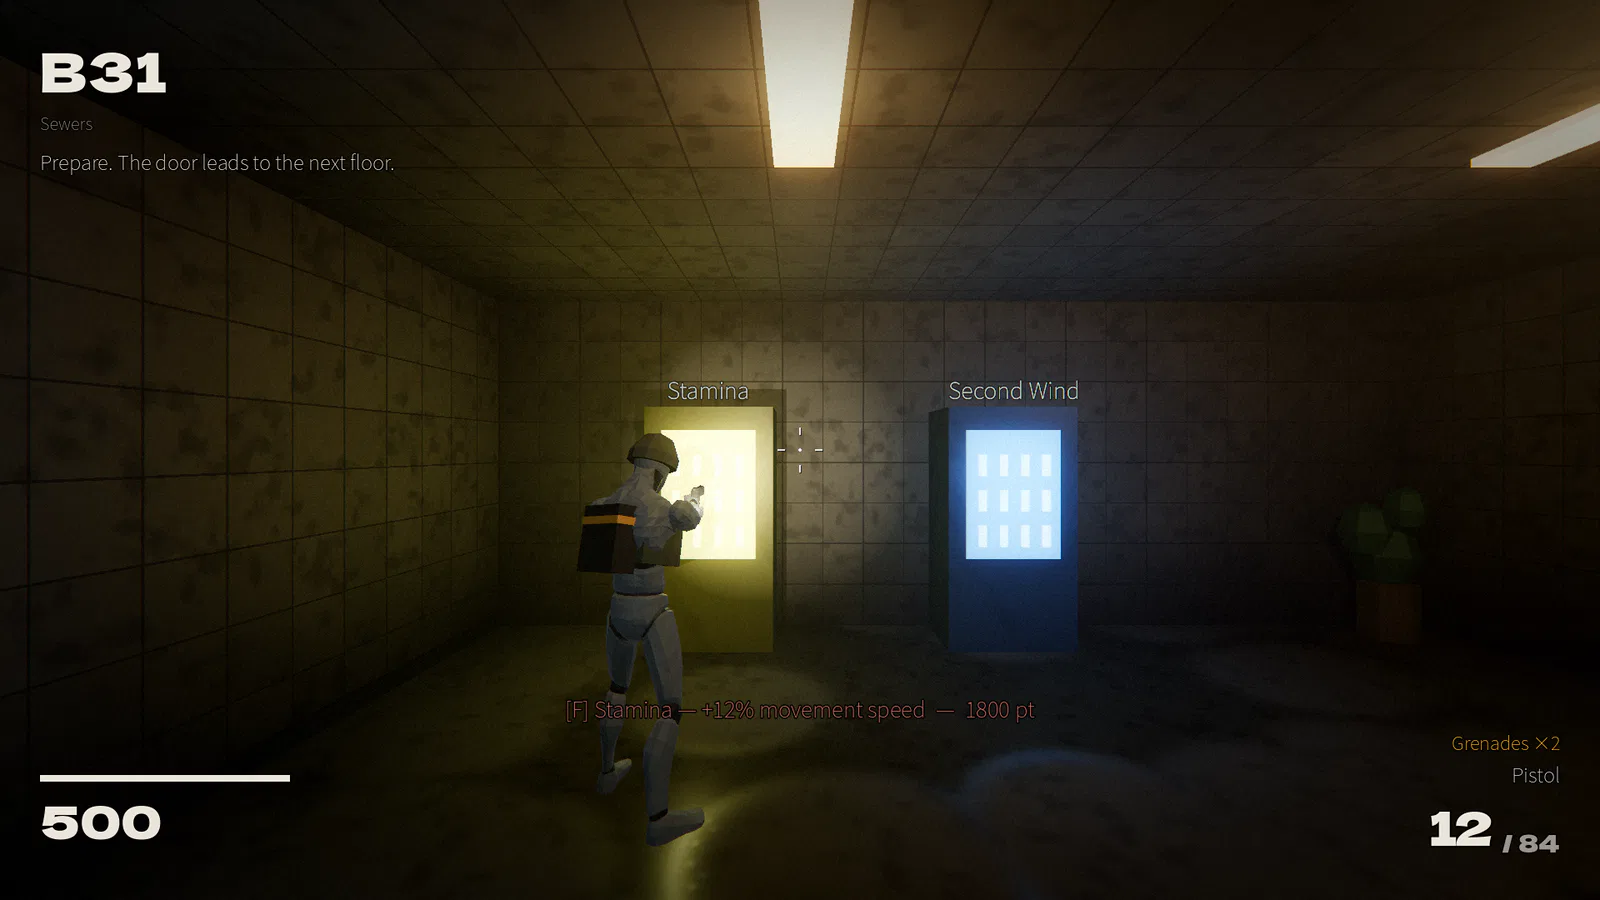
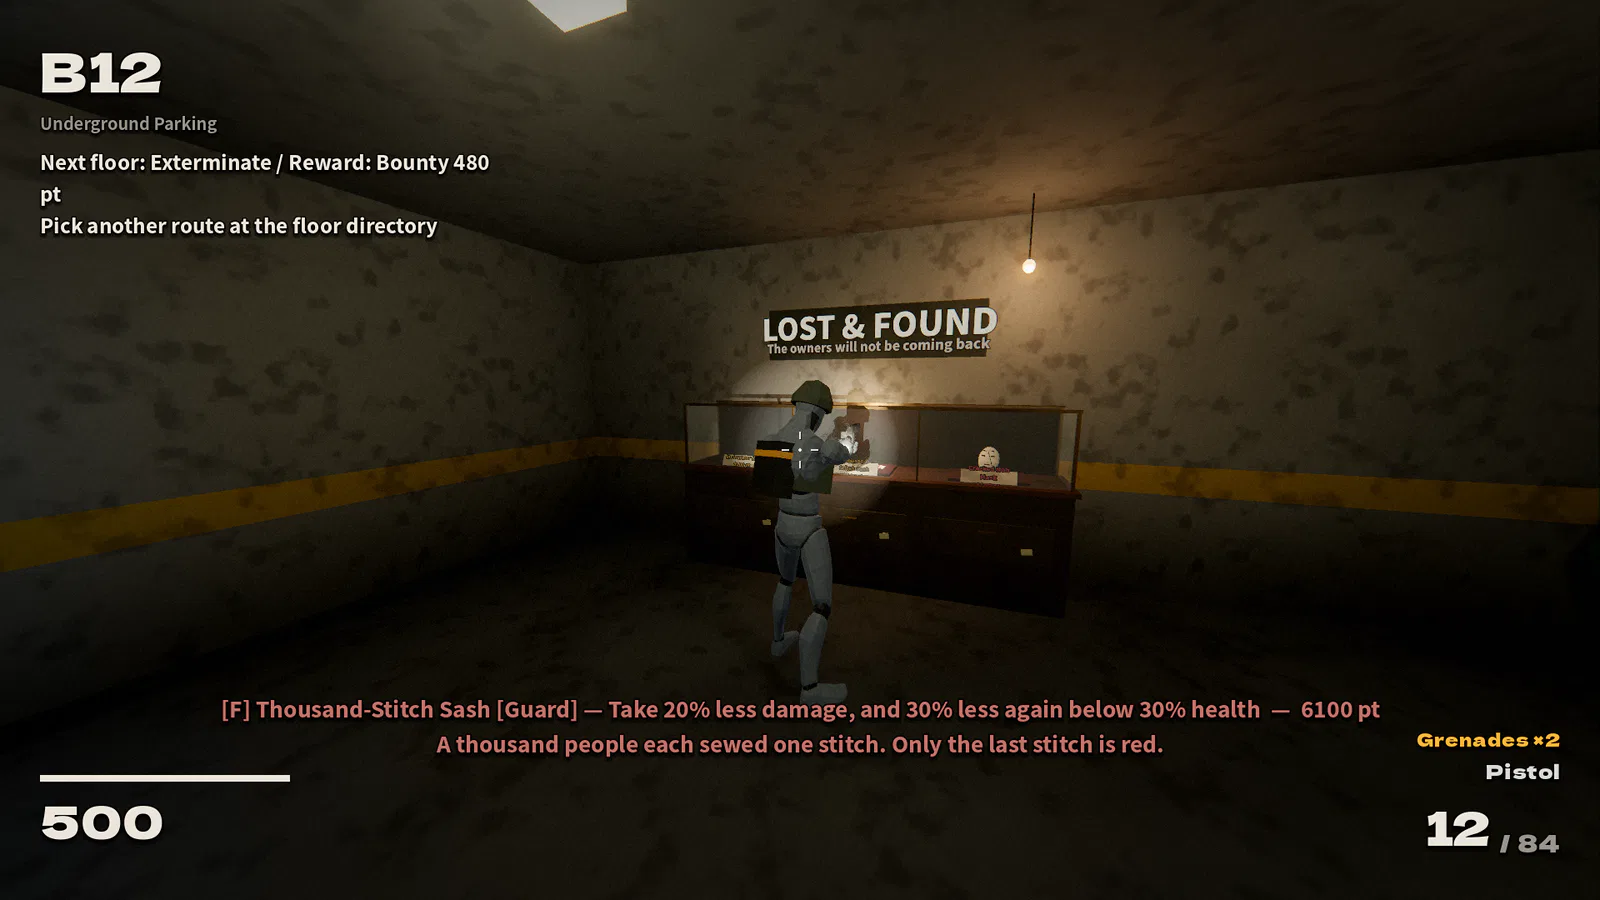
v0.2.0 の内容に合わせて紹介文と画像を直し、製品版のコード入力欄を足す

diff --git a/index.html b/index.html
@@ -70,7 +70,7 @@
         <span class="live"><span class="ja">Steam でウィッシュリストに追加</span><span class="en">Wishlist on Steam</span></span>
       </a>
     </div>
-    <p class="hero-meta">Windows 10 / 11<i>·</i>日本語 / English<i>·</i><span class="js-version">v0.1.0</span></p>
+    <p class="hero-meta">Windows 10 / 11<i>·</i>日本語 / English<i>·</i><span class="js-version">v0.2.0</span></p>
   </div>
   <a class="hero-down" href="#about"><span class="ja">降りる</span><span class="en">Descend</span></a>
 </section>
@@ -108,17 +108,17 @@
       <li class="card">
         <svg viewBox="0 0 24 24" aria-hidden="true"><rect x="3" y="3" width="18" height="18" rx="2"/><path d="M9.5 9.5a2.5 2.5 0 1 1 3.4 2.3c-.6.3-.9.8-.9 1.4V14"/><circle cx="12" cy="17" r=".9" class="fill"/></svg>
         <h3><span class="ja">買う</span><span class="en">Spend</span></h3>
-        <p><span class="ja">壁の武器を買い、ミステリーボックスで一発逆転を狙い、パークのアンプルで自分を強化する。</span><span class="en">Buy guns off the walls, gamble on the Mystery Box and drink perk ampoules.</span></p>
+        <p><span class="ja">壁の武器を買い、コインロッカーで一発逆転を狙う。ホールの遺失物の棚には、先に降りた者たちの遺品が並ぶ。</span><span class="en">Buy guns off the walls, try your luck at the Coin Locker, and pick up relics left in the halls by those who went down before you.</span></p>
       </li>
       <li class="card">
         <svg viewBox="0 0 24 24" aria-hidden="true"><path d="M6 13l6-6 6 6M6 19l6-6 6 6"/></svg>
         <h3><span class="ja">鍛える</span><span class="en">Upgrade</span></h3>
-        <p><span class="ja">改造台で武器を最大+5まで強化。レアリティはコモンからレジェンドまで5段階。</span><span class="en">Upgrade weapons at the mod bench up to +5, across five rarities from Common to Legendary.</span></p>
+        <p><span class="ja">改造台で武器を最大+5まで強化。拾った武器には、焼夷や跳弾などの特性がランダムに付く。</span><span class="en">Upgrade weapons at the mod bench up to +5. Guns you find roll random traits like Incendiary and Ricochet.</span></p>
       </li>
       <li class="card">
         <svg viewBox="0 0 24 24" aria-hidden="true"><circle cx="12" cy="12" r="9"/><path d="M8 10h8l-4 5z" class="fill"/></svg>
         <h3><span class="ja">降りる</span><span class="en">Descend</span></h3>
-        <p><span class="ja">クリア条件はフロアごとに変わる。殲滅、生存、電源の復旧、端末の防衛、そしてボス。</span><span class="en">Every floor rolls its own goal: exterminate, survive, restore the power, hold the terminal, or kill the boss.</span></p>
+        <p><span class="ja">ホールの案内板で、次の階の目的・異常・報酬を選ぶ。危険な異常ほど、見返りも大きい。</span><span class="en">Pick the next floor at the hall's directory: its goal, its anomaly and its reward. The nastier the anomaly, the bigger the payoff.</span></p>
       </li>
     </ol>
   </div>
@@ -142,10 +142,10 @@
       <div class="opt opt-deep">
         <p class="opt-mark" aria-hidden="true">▼</p>
         <h3><span class="ja">続行</span><span class="en">Keep going</span></h3>
-        <p><span class="ja">そのまま下へ。稼ぎは増えるが、死ねば持ち物とポイントはすべて地下に消える。</span><span class="en">More floors, more points. But die, and everything you carry is lost underground.</span></p>
+        <p><span class="ja">そのまま下へ。稼ぎは増えるが、死ねば持ち物とポイントは地下に置き去り。取り戻せるのは、亡骸に残った一部だけ。</span><span class="en">More floors, more points. But die, and what you carry stays underground. Only part of it waits on your remains.</span></p>
       </div>
     </div>
-    <p class="prose small"><span class="ja">貯金はホームで恒久強化に使える。体力、初期資金、パーク枠、保険など、少しずつ確実に強くなれる。</span><span class="en">Banked points buy permanent upgrades at home: health, starting cash, perk slots, insurance and more. Slow, certain progress.</span></p>
+    <p class="prose small"><span class="ja">貯金はホームで恒久強化に使える。体力、初期資金、遺品の所持数、保険など、少しずつ確実に強くなれる。</span><span class="en">Banked points buy permanent upgrades at home: health, starting cash, relic capacity, insurance and more. Slow, certain progress.</span></p>
   </div>
 </section>
 
@@ -239,7 +239,7 @@
     </div>
     <p class="prose hall-lines ja"><span>フロアとフロアの間にある、エレベーターホール。</span><span>補給と準備の場所だが、ここではときどき何かが起きる。</span><span>明滅する照明、どこからか聞こえる物音。</span><span>そして、まれに……。</span></p>
     <p class="prose hall-lines en"><span>Between floors there is a hall to restock and get ready.</span><span>Mostly it is quiet. Lights flicker.</span><span>Something moves somewhere.</span><span>And sometimes...</span></p>
-    <p class="hall-note"><span class="ja">ホールでは中断セーブができる。少しずつ遊べる。</span><span class="en">Suspend your run at any elevator hall and play in short sessions.</span></p>
+    <p class="hall-note"><span class="ja">ホールでは遺品を手に入れ、次の階を選ぶ。中断セーブもできるので、少しずつ遊べる。</span><span class="en">In the halls you pick up relics and choose the next floor. You can also suspend your run there and play in short sessions.</span></p>
   </div>
 </section>
 
@@ -269,15 +269,15 @@
       </a></li>
       <li><a class="shot" href="img/shots/ja/05_elevator_hall.webp" data-shot="05_elevator_hall">
         <img data-shot="05_elevator_hall" data-size="small" src="img/shots/ja/05_elevator_hall_s.webp" alt="" width="640" height="360" loading="lazy">
-        <span class="cap"><span class="ja">エレベーターホールのパーク自販機</span><span class="en">Perk machines in an elevator hall</span></span>
+        <span class="cap"><span class="ja">エレベーターホールの遺失物の棚</span><span class="en">The lost &amp; found in an elevator hall</span></span>
       </a></li>
       <li><a class="shot" href="img/shots/ja/06_home_base.webp" data-shot="06_home_base">
         <img data-shot="06_home_base" data-size="small" src="img/shots/ja/06_home_base_s.webp" alt="" width="640" height="360" loading="lazy">
         <span class="cap"><span class="ja">ホーム：貯金で恒久強化</span><span class="en">Home base: spend banked points</span></span>
       </a></li>
-      <li><a class="shot" href="img/shots/ja/07_mystery_box.webp" data-shot="07_mystery_box">
-        <img data-shot="07_mystery_box" data-size="small" src="img/shots/ja/07_mystery_box_s.webp" alt="" width="640" height="360" loading="lazy">
-        <span class="cap"><span class="ja">ミステリーボックス</span><span class="en">The Mystery Box</span></span>
+      <li><a class="shot" href="img/shots/ja/07_coin_locker.webp" data-shot="07_coin_locker">
+        <img data-shot="07_coin_locker" data-size="small" src="img/shots/ja/07_coin_locker_s.webp" alt="" width="640" height="360" loading="lazy">
+        <span class="cap"><span class="ja">コインロッカー：まれに中に「何か」がいる</span><span class="en">The Coin Locker: sometimes something is inside</span></span>
       </a></li>
       <li><a class="shot" href="img/shots/ja/08_blackout.webp" data-shot="08_blackout">
         <img data-shot="08_blackout" data-size="small" src="img/shots/ja/08_blackout_s.webp" alt="" width="640" height="360" loading="lazy">
@@ -302,15 +302,18 @@
       <li><b>100</b><span><span class="ja">フロア</span><span class="en">floors</span></span></li>
       <li><b>10</b><span><span class="ja">エリア</span><span class="en">zones</span></span></li>
       <li><b>10</b><span><span class="ja">ボス</span><span class="en">bosses</span></span></li>
-      <li><b>14</b><span><span class="ja">武器</span><span class="en">weapons</span></span></li>
-      <li><b>7</b><span><span class="ja">パーク</span><span class="en">perks</span></span></li>
+      <li><b>21</b><span><span class="ja">武器</span><span class="en">weapons</span></span></li>
+      <li><b>35</b><span><span class="ja">遺品</span><span class="en">relics</span></span></li>
       <li><b>21</b><span><span class="ja">実績</span><span class="en">achievements</span></span></li>
     </ul>
     <ul class="feats">
       <li><span class="ja">毎回変わる自動生成フロア</span><span class="en">Procedurally generated floors, different every run</span></li>
-      <li><span class="ja">5段階のレアリティと、+5までの改造</span><span class="en">Five rarities and weapon upgrades up to +5</span></li>
-      <li><span class="ja">グレネードとパワーアップ（弾薬全回復、一撃必殺、ポイント2倍、殲滅）</span><span class="en">Grenades and power-ups: Max Ammo, Insta-Kill, Double Points, Annihilation</span></li>
-      <li><span class="ja">ホームでの恒久強化と武器庫</span><span class="en">Permanent upgrades and a weapon armory at home</span></li>
+      <li><span class="ja">案内板で、次の階の「異常」と「報酬」を選ぶ</span><span class="en">Choose the next floor's anomaly and reward at the floor directory</span></li>
+      <li><span class="ja">35種の遺品。同じ印をそろえると「共鳴」する</span><span class="en">35 relics; matching marks resonate</span></li>
+      <li><span class="ja">19種の武器の特性と、撃ち方の違う武器（釘打ち機、ボウガン、火炎放射器など）</span><span class="en">19 weapon traits, and guns that fire differently (Nail Gun, Crossbow, Flamethrower and more)</span></li>
+      <li><span class="ja">怪異の品（招き猫、懐中時計、手鏡など8種）。どれも効果にひねりがある</span><span class="en">Eight cursed curios (maneki-neko, pocket watch, hand mirror...), each with a twist</span></li>
+      <li><span class="ja">死んだ階に残る亡骸を、次の出撃で取り戻す</span><span class="en">Your remains stay where you died; take them back on your next descent</span></li>
+      <li><span class="ja">ホームでの恒久強化と、武器庫・工房</span><span class="en">Permanent upgrades, an armory and a workshop at home</span></li>
       <li><span class="ja">エレベーターホールで中断セーブ</span><span class="en">Suspend your run at any elevator hall</span></li>
       <li><span class="ja">日本語・英語、キーボード＆マウスとゲームパッドに対応</span><span class="en">English and Japanese, keyboard &amp; mouse and gamepad</span></li>
     </ul>
@@ -328,7 +331,7 @@
       <div class="dl-main">
         <p class="dl-lead"><span class="ja">無料。B20 のボスを倒すところまで遊べます。</span><span class="en">Free. Play through to the B20 guardian.</span></p>
         <dl class="dl-spec">
-          <div><dt><span class="ja">バージョン</span><span class="en">Version</span></dt><dd class="js-version">v0.1.0</dd></div>
+          <div><dt><span class="ja">バージョン</span><span class="en">Version</span></dt><dd class="js-version">v0.2.0</dd></div>
           <div><dt><span class="ja">ファイル</span><span class="en">File</span></dt><dd><span class="ja">ZIP（約 <span class="js-size">72</span> MB）</span><span class="en">ZIP (about <span class="js-size">72</span> MB)</span></dd></div>
           <div><dt>OS</dt><dd>Windows 10 / 11 (64-bit)</dd></div>
           <div><dt><span class="ja">言語</span><span class="en">Languages</span></dt><dd>日本語 / English</dd></div>
@@ -362,6 +365,19 @@
         <span class="live"><span class="ja">Steam でウィッシュリストに追加</span><span class="en">Wishlist on Steam</span></span>
       </a>
     </div>
+    <!-- Shown when config.js has fullApi: the code check that hands out the full version. -->
+    <form class="code-card js-code" hidden>
+      <div class="code-head">
+        <h3><span class="ja">製品版（コードをお持ちの方）</span><span class="en">Full version (for code holders)</span></h3>
+        <p><span class="ja">テストに協力してくださる方に、製品版をコードでお渡ししています。届いたコードを入れると、ダウンロードが始まります。</span><span class="en">Testers get the full version with a personal code. Enter yours to start the download.</span></p>
+      </div>
+      <div class="code-row">
+        <input class="code-input" name="code" type="text" autocomplete="off" autocapitalize="characters" spellcheck="false" maxlength="32" placeholder="B100-XXXX-XXXX-XXXX" required data-ja-label="製品版のコード" data-en-label="Full version code" aria-label="製品版のコード">
+        <button class="btn btn-red" type="submit"><span class="ja">製品版をダウンロード</span><span class="en">Download the full version</span></button>
+      </div>
+      <p class="code-msg" role="status" aria-live="polite"></p>
+      <p class="code-note"><span class="ja">コードは人に渡さないでください。ダウンロードのリンクは数分で切れます。展開と起動は体験版と同じで、<code>B100.exe</code> を起動します。</span><span class="en">Please keep your code to yourself. Download links expire after a few minutes. Extract and start it like the demo, with <code>B100.exe</code>.</span></p>
+    </form>
   </div>
 </section>
 
@@ -461,6 +477,13 @@
         <div class="faq-a">
           <p class="ja">Steam で発売予定です。日にちが決まったら、このページでお知らせします。</p>
           <p class="en">It's coming to Steam. The date will be announced on this page.</p>
+        </div>
+      </details>
+      <details class="js-code-faq" hidden>
+        <summary><span class="ja">製品版のコードはどうすればもらえる？</span><span class="en">How do I get a code for the full version?</span></summary>
+        <div class="faq-a">
+          <p class="ja">いまは、テストに協力してくださる方にだけ、作者から直接お渡ししています。コードごとに使える回数と期限があります。</p>
+          <p class="en">For now the developer hands them out directly to testers. Each code has a limited number of downloads and an expiry date.</p>
         </div>
       </details>
       <details class="js-contact" hidden>

diff --git a/main.js b/main.js
@@ -58,6 +58,61 @@
     $$(".js-contact-link").forEach((a) => (a.href = cfg.contactUrl));
   }
 
+  // ---------- full version for code holders ----------
+  // The code goes to cfg.fullApi (a Supabase Edge Function); a valid one comes back with a
+  // download link that only works for a few minutes.
+
+  const codeForm = document.querySelector(".js-code");
+  if (codeForm && cfg.fullApi) {
+    codeForm.hidden = false;
+    $$(".js-code-faq").forEach((el) => (el.hidden = false));
+    const input = codeForm.querySelector(".code-input");
+    const button = codeForm.querySelector("button");
+    const msg = codeForm.querySelector(".code-msg");
+    const texts = {
+      checking: ["確かめています…", "Checking…"],
+      invalid: ["コードが違います。もう一度確かめてください。", "That code isn't right. Please check it and try again."],
+      expired: ["このコードは期限が切れています。", "This code has expired."],
+      used_up: ["このコードは、ダウンロードできる回数を使い切りました。", "This code has no downloads left."],
+      revoked: ["このコードは使えなくなりました。", "This code has been turned off."],
+      not_ready: ["いまは製品版をお渡しできません。しばらくしてから試してください。", "The full version isn't available right now. Please try again later."],
+      error: ["うまくつながりませんでした。時間をおいて試してください。", "Couldn't connect. Please try again in a while."],
+    };
+    const say = (pair, bad, extra = "") => {
+      msg.classList.toggle("bad", Boolean(bad));
+      msg.replaceChildren(
+        ...pair.map((t, i) => {
+          const span = document.createElement("span");
+          span.className = i === 0 ? "ja" : "en";
+          span.textContent = t + extra;
+          return span;
+        })
+      );
+    };
+    codeForm.addEventListener("submit", async (e) => {
+      e.preventDefault();
+      button.disabled = true;
+      say(texts.checking);
+      try {
+        const res = await fetch(cfg.fullApi, {
+          method: "POST",
+          headers: { "Content-Type": "application/json" },
+          body: JSON.stringify({ code: input.value }),
+        });
+        const data = await res.json().catch(() => ({}));
+        if (res.ok && data.url) {
+          say(["ダウンロードを始めます：", "Starting the download: "], false, data.file || "");
+          location.href = data.url;
+        } else {
+          say(texts[data.error] || texts.error, true);
+        }
+      } catch (err) {
+        say(texts.error, true);
+      }
+      button.disabled = false;
+    });
+  }
+
   $$(".js-copy").forEach((b) =>
     b.addEventListener("click", async () => {
       const url = location.href.split("#")[0];

diff --git a/style.css b/style.css
@@ -455,6 +455,40 @@ a.btn-red:not([href]) { background: var(--panel-2); color: var(--dim); border: 1
   color: var(--dim);
 }
 
+/* full version for code holders (shown only when config.js has fullApi) */
+.code-card {
+  display: grid;
+  gap: 14px;
+  margin-top: 20px;
+  padding: 22px 24px;
+  border: 1px solid var(--line-2);
+  border-radius: 10px;
+  background: var(--panel);
+}
+.code-card[hidden] { display: none; }
+.code-head h3 { font-family: var(--display); font-weight: 400; font-size: 1.25rem; }
+.code-head p { margin-top: 6px; color: var(--dim); font-size: 0.92rem; }
+.code-row { display: flex; flex-wrap: wrap; gap: 10px; }
+.code-input {
+  flex: 1 1 15em;
+  min-width: 0;
+  padding: 0.8em 1em;
+  border: 1px solid var(--line-2);
+  border-radius: 4px;
+  background: #0c0908;
+  color: var(--text);
+  font: inherit;
+  font-family: ui-monospace, Consolas, monospace;
+  letter-spacing: 0.08em;
+  text-transform: uppercase;
+}
+.code-input::placeholder { color: var(--faint); }
+.code-row .btn-red:hover:not(:disabled) { background: var(--red); }
+.code-row .btn:disabled { opacity: 0.6; cursor: wait; }
+.code-msg { min-height: 1.6em; color: var(--dim); font-size: 0.92rem; }
+.code-msg.bad { color: var(--red-text); }
+.code-note { color: var(--faint); font-size: 0.82rem; }
+
 /* specs */
 .specs { display: grid; gap: 56px; }
 .tbl { width: 100%; border-collapse: collapse; font-size: 0.9rem; line-height: 1.6; }
@@ -544,7 +578,8 @@ a.btn-red:not([href]) { background: var(--panel-2); color: var(--dim); border: 1
   .hero::before {
     background: linear-gradient(180deg, rgba(10, 8, 7, 0.1) 0%, rgba(10, 8, 7, 0.25) 32%, var(--bg) 60%);
   }
-  .hero-cta .btn { flex: 1 1 100%; }
+  .hero-cta .btn,
+  .code-row .btn { flex: 1 1 100%; }
   .zone { grid-template-columns: auto 1fr; padding: 14px 16px; }
   .board-head { display: none; }
   .z-haz,

diff --git a/config.js b/config.js
@@ -6,4 +6,5 @@ window.B100_SITE = {
   steamUrl: "",       // Steam のストアページ。空のあいだは「Steam 近日登場」と表示
   developer: "",      // フッターの「© 2026 ○○」に出す名前。空なら B100
   contactUrl: "",     // 感想・不具合の受付先（X、Google フォームなど）。空なら FAQ に出さない
+  fullApi: "https://pqsfaorecaxxrkyiqkzi.supabase.co/functions/v1/full-download", // 製品版のコードを確かめる窓口（Supabase）。空ならコードの入力欄を出さない
 };
